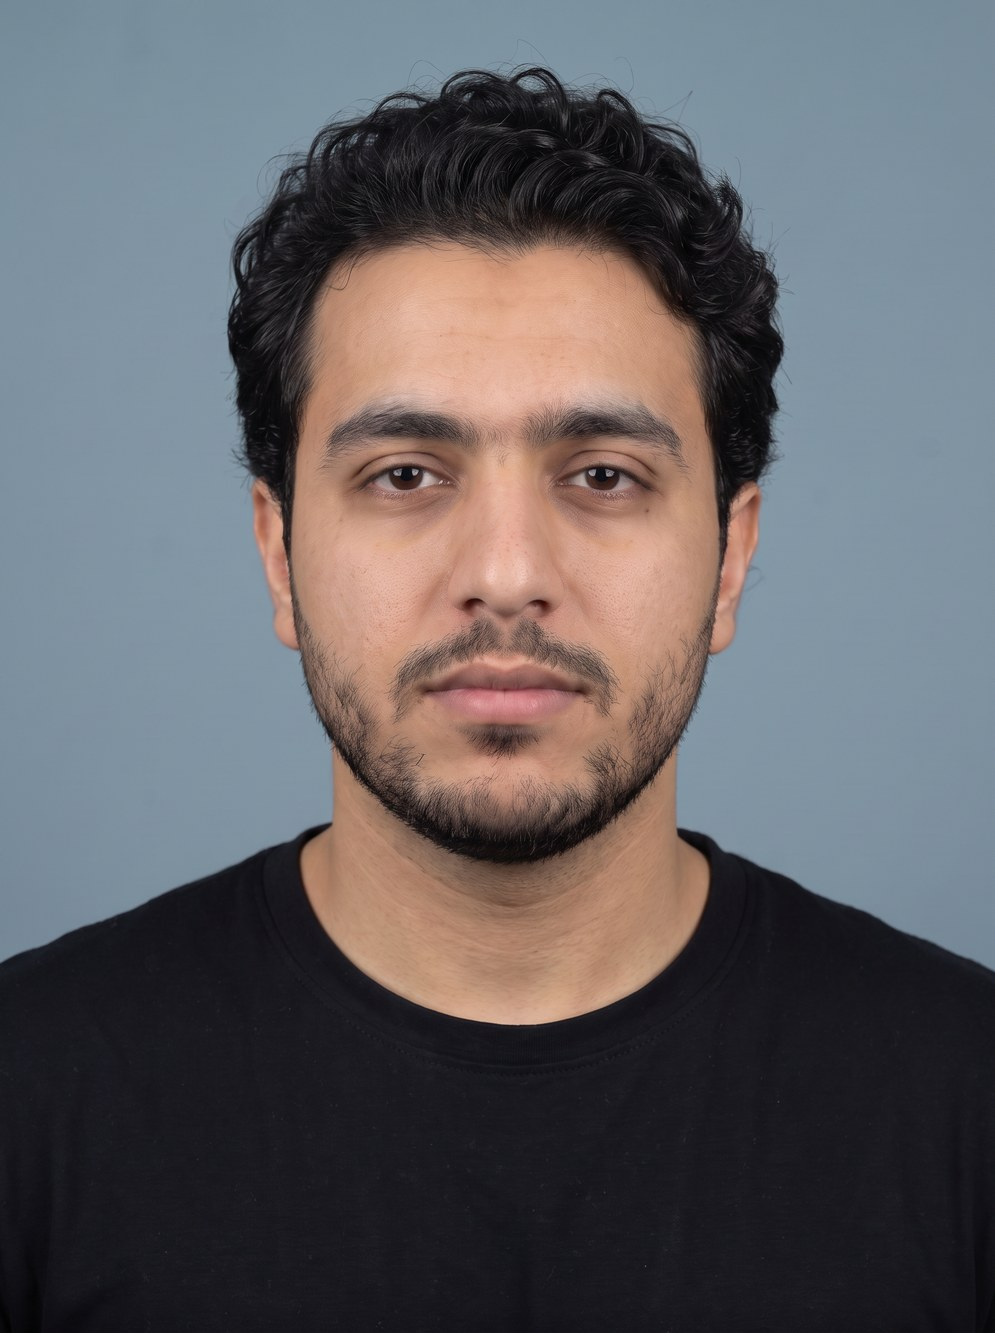
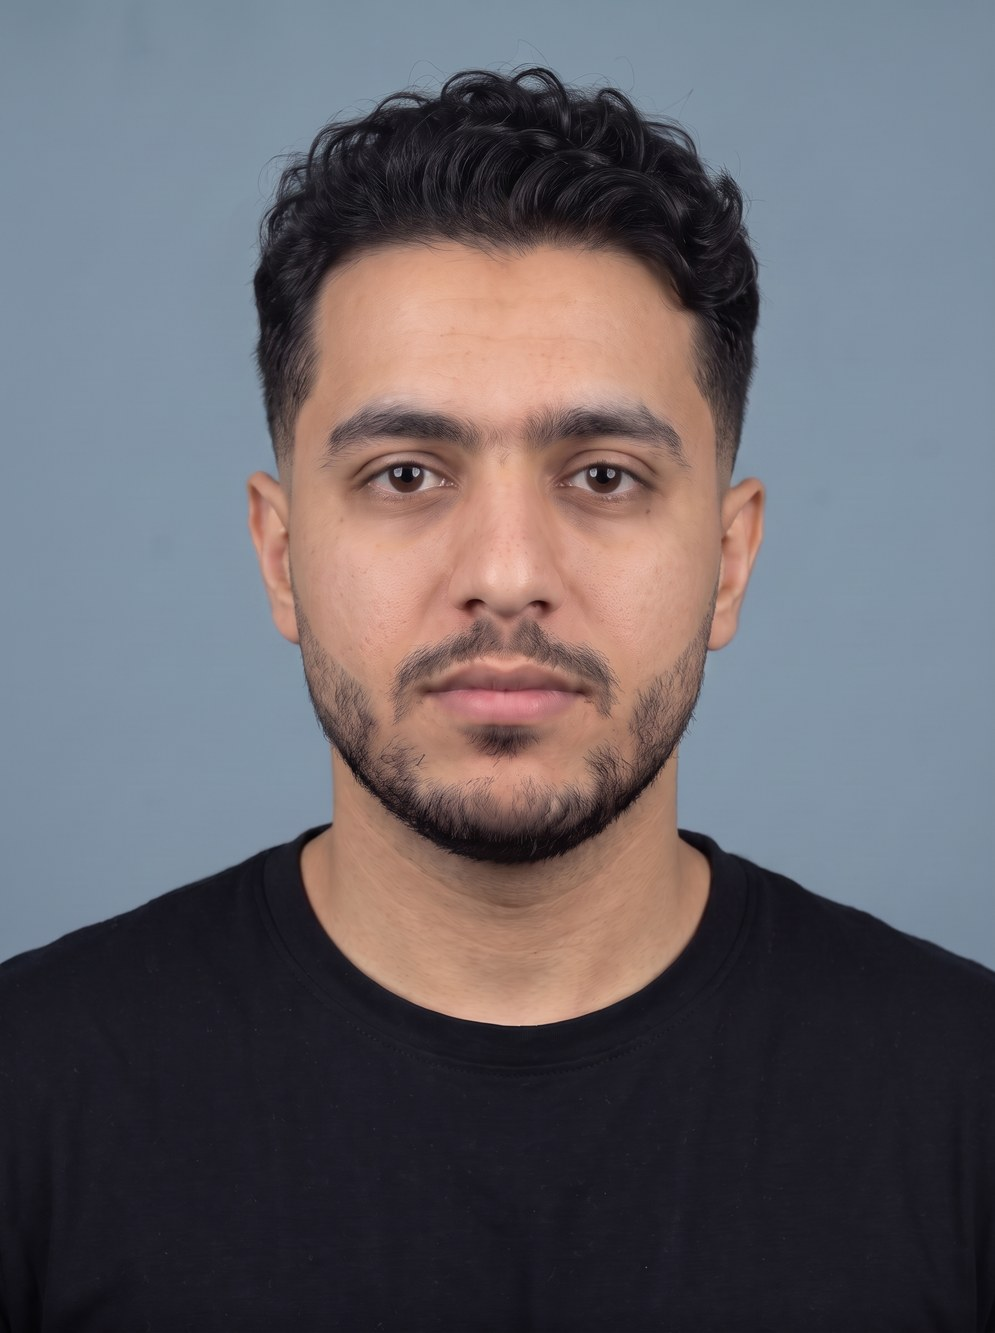
Final sample after: swept-back curls, alert eyes; taper-fade variant
- Face after: swept-back medium curls + faded Italian beard, eyes/brows
  edited for an alert, confident look; realism check passes (all <1%)
- Alternative: swept-back curls with mid taper fade and beard faded into
  the taper (new library style 'swept-curls-taper-fade')
- Body afters updated to match

Claude-Session: https://claude.ai/code/session_01YK5LfND9fHzJNnxfHhhsd1

diff --git a/app/src/lib/styles.ts b/app/src/lib/styles.ts
@@ -109,7 +109,7 @@ export const HAIRSTYLES: HairStyle[] = [
   },
   {
     id: "medium-curls-subtle-taper",
-    name: "Medium curls · subtle taper",
+    name: "Swept-back medium curls · subtle taper",
     status: "trending",
     gender: "male",
     hairTypes: ["wavy", "curly"],
@@ -119,8 +119,23 @@ export const HAIRSTYLES: HairStyle[] = [
     maintenanceWeeks: 5,
     barber: "Keep 7–9 cm of curl on top, scissor-cut sides left with some length over the ears, only a subtle low taper at the sideburns and nape (no skin). Cut curls dry, curl cream, no gel.",
     prompt:
-      "medium-length slightly curly hair: about 7-9 cm on top of loose, soft natural curls and waves with real volume and movement, swept loosely back and to the side with a few curls falling onto the upper forehead, natural matte finish, not slick; sides kept fuller with only a subtle low taper at the sideburns and the neckline (no skin, no visible fade line), slightly longer over the ears",
+      "medium-length wavy-curly hair about 7-8 cm on top, styled with intention — swept back and slightly to one side with soft volume and defined loose curls, the front lifted off the forehead, sides fuller and tucked, subtle low taper only at the sideburns and nape, polished matte finish, groomed not messy",
     fx: { height: 0.2, sides: 0.7, fringe: 0.5 },
+    worksWith: ["wavy", "curly"]
+  },
+  {
+    id: "swept-curls-taper-fade",
+    name: "Swept-back curls · taper fade",
+    status: "trending",
+    gender: "male",
+    hairTypes: ["wavy", "curly"],
+    faceShapes: ["Oval", "Oblong", "Diamond", "Heart", "Square"],
+    topCm: [6, 9],
+    heatFriendly: true,
+    maintenanceWeeks: 3,
+    barber: "Keep 6–8 cm of curl on top, swept back and slightly to one side. Mid taper fade on the sides and back (#2 to skin at the sideburns and nape), crisp outline around the ears. Ask for the beard to be faded into the taper.",
+    prompt: "swept-back wavy-curly top about 7 cm with soft volume, swept back and slightly to one side, with a clean mid taper fade on the sides and back — blended short from about #2 down to skin at the sideburns and nape, smooth gradient, crisp outline around the ears",
+    fx: { height: 0.3, sides: -0.2, fringe: -0.4 },
     worksWith: ["wavy", "curly"]
   },
   {

diff --git a/app/src/lib/sample.ts b/app/src/lib/sample.ts
@@ -17,7 +17,7 @@ export const sampleProfile: Profile = {
   intake: data.intake as Intake,
 };
 
-export const sampleScan: Scan = { ...(data.scan as unknown as Scan), id: SAMPLE_SCAN_ID, profileId: SAMPLE_PROFILE_ID, stylePick: { hair: "curly-crop-taper", beard: "faded-italian" } };
+export const sampleScan: Scan = { ...(data.scan as unknown as Scan), id: SAMPLE_SCAN_ID, profileId: SAMPLE_PROFILE_ID, stylePick: { hair: "medium-curls-subtle-taper", beard: "faded-italian" } };
 
 const S = `${import.meta.env.BASE_URL}sample/`;
 
@@ -31,5 +31,5 @@ export const sampleVisuals: Visuals = {
   baseline: S + "face.jpg",
   after: S + "face_after.jpg",
   body: { front: S + "body_front.jpg", side: S + "body_side.jpg", afterFront: S + "body_after_front.jpg", afterSide: S + "body_after_side.jpg" },
-  styles: [{ name: "Neat curly crop · faded Italian beard (reviewer pick)", front: S + "face_after.jpg" }, { name: "Medium curls swept back · faded Italian beard", front: S + "face_after_alt.jpg" }],
+  styles: [{ name: "Swept-back medium curls · faded Italian beard (reviewer pick)", front: S + "face_after.jpg" }, { name: "Swept-back curls · taper fade · faded beard", front: S + "face_after_alt.jpg" }],
 };
